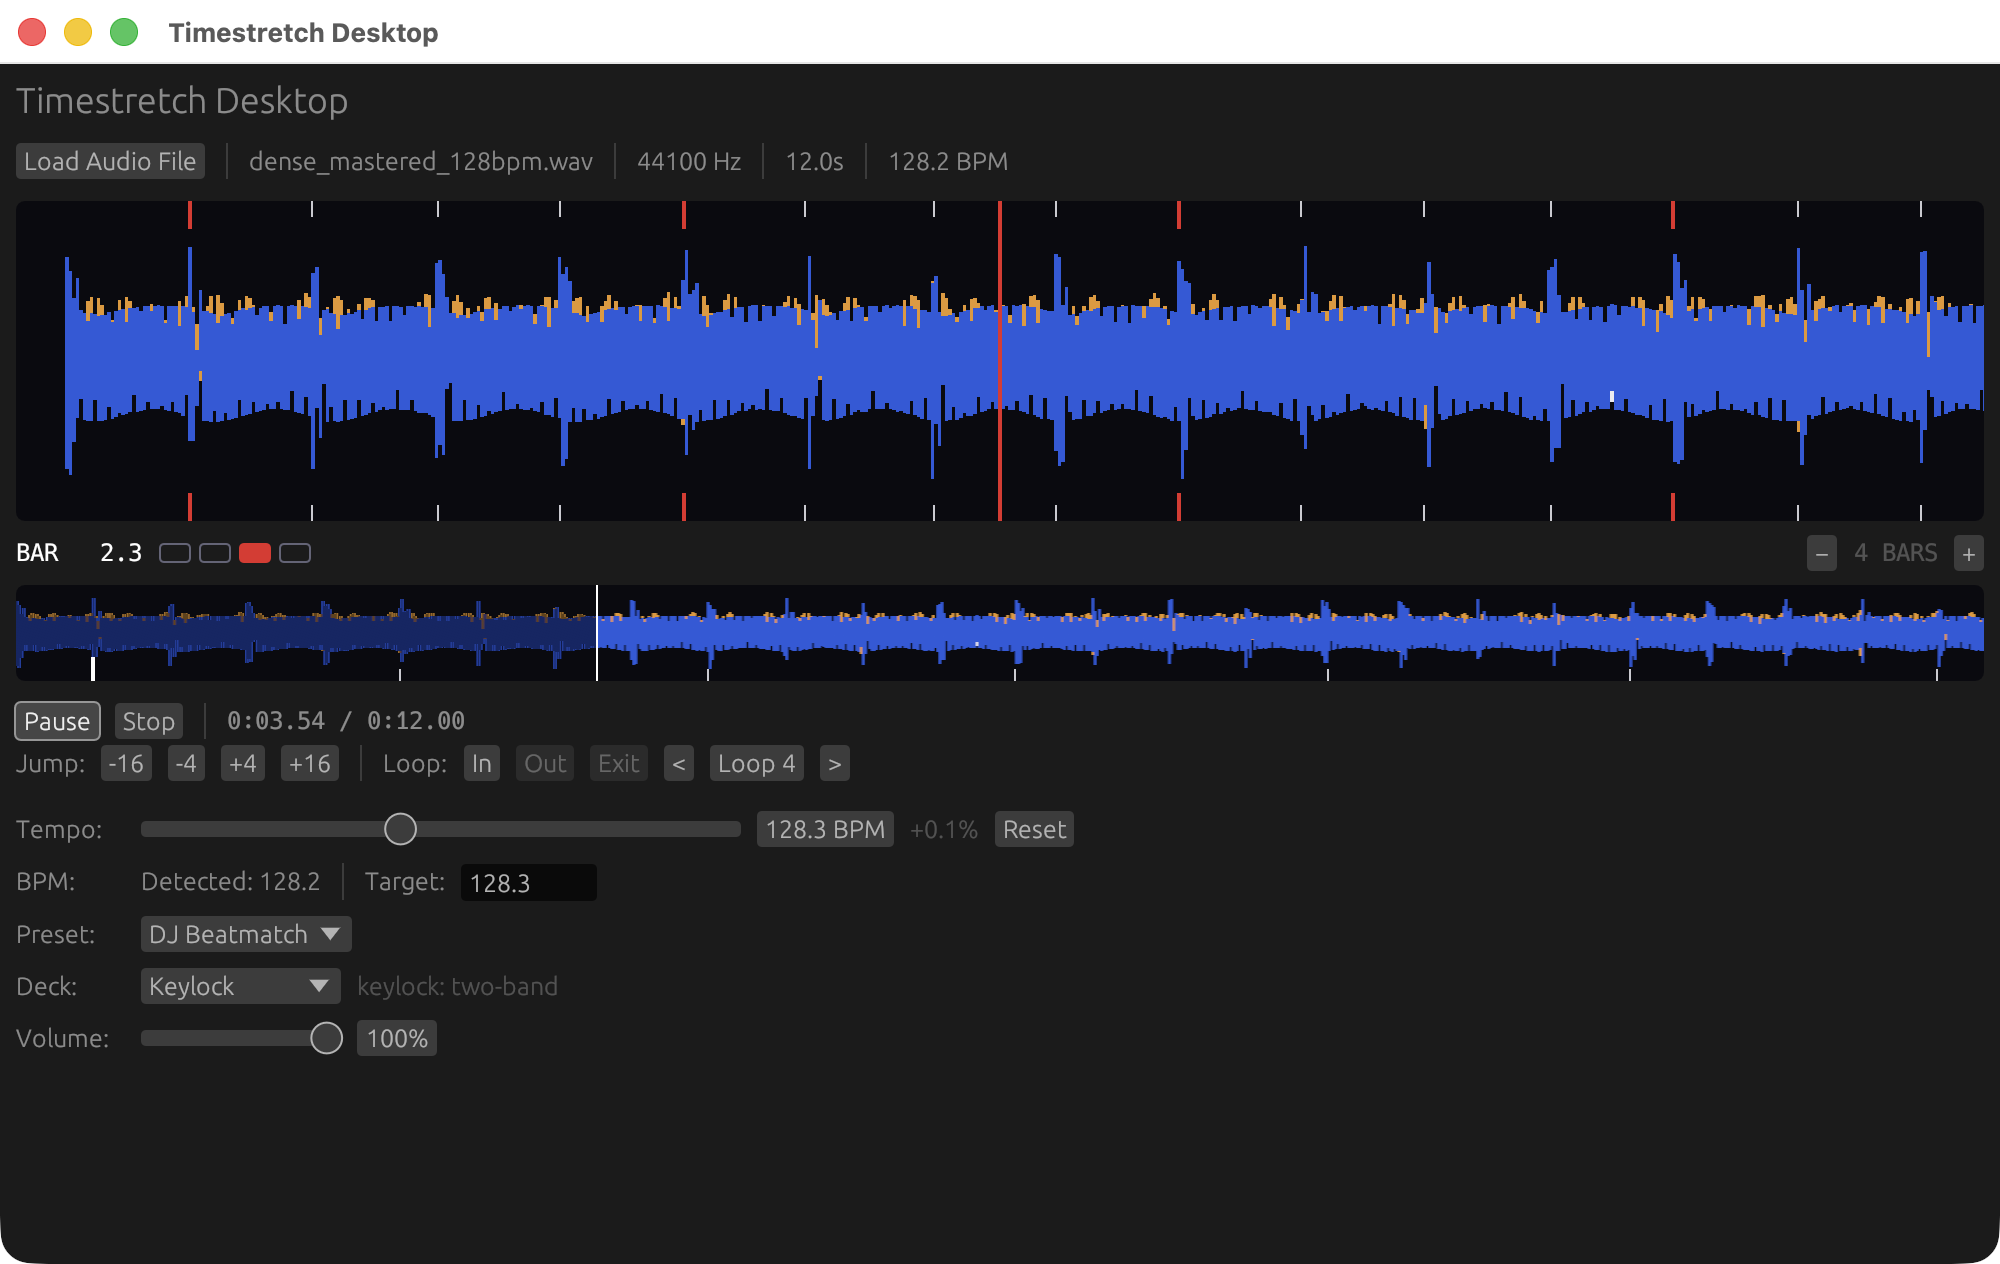
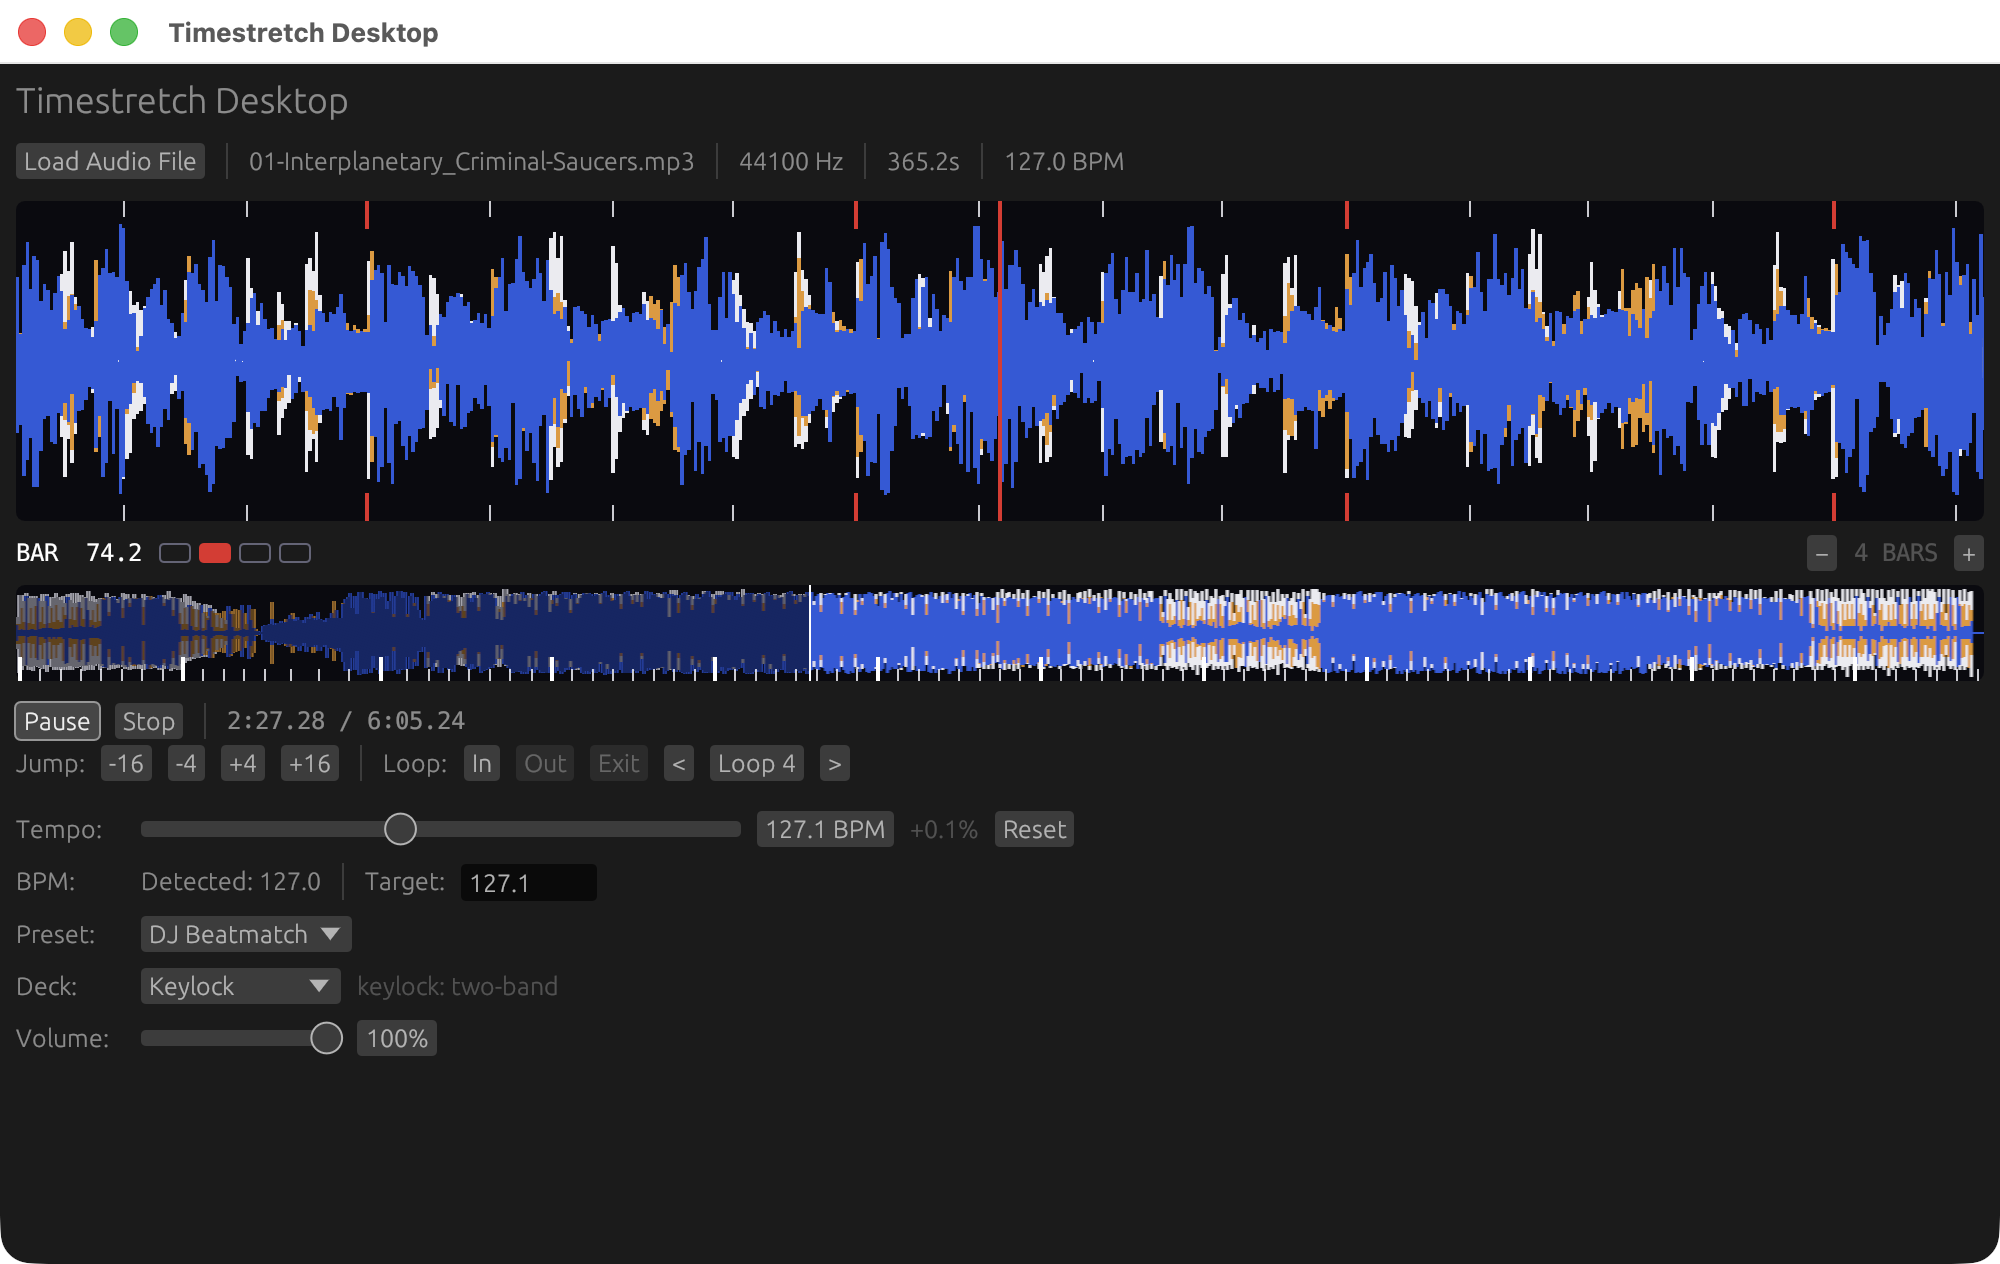
Recapture README screenshot with a real track; add readme-screenshot skill
Screenshot now shows Interplanetary Criminal - Saucers mid-playback
(seeked past the intro) instead of the synthetic test tone. The new
desktop/.claude/skills/readme-screenshot skill codifies the capture
procedure, with the uidrive CGEvent helper source kept alongside it.

diff --git a/desktop/.claude/skills/readme-screenshot/uidrive.swift b/desktop/.claude/skills/readme-screenshot/uidrive.swift
@@ -1,0 +1,81 @@
+import Cocoa
+import CoreGraphics
+
+func layer0Windows() -> [[String: Any]] {
+    let list = CGWindowListCopyWindowInfo([.optionOnScreenOnly, .excludeDesktopElements],
+                                          kCGNullWindowID) as! [[String: Any]]
+    return list.filter { ($0[kCGWindowLayer as String] as? Int ?? -1) == 0 }
+}
+
+func bounds(_ w: [String: Any]) -> CGRect {
+    let b = w[kCGWindowBounds as String] as! [String: CGFloat]
+    return CGRect(x: b["X"]!, y: b["Y"]!, width: b["Width"]!, height: b["Height"]!)
+}
+
+func post(_ type: CGEventType, _ pt: CGPoint, _ button: CGMouseButton = .left) {
+    CGEvent(mouseEventSource: nil, mouseType: type,
+            mouseCursorPosition: pt, mouseButton: button)?.post(tap: .cghidEventTap)
+}
+
+let args = CommandLine.arguments
+guard args.count >= 2 else {
+    fputs("usage: uidrive winid <name> | list | click <x> <y> | drag <x1> <y1> <x2> <y2> <ms> [holdBeforeMs] [holdAfterMs]\n", stderr)
+    exit(2)
+}
+
+switch args[1] {
+case "winid":
+    let name = args[2].lowercased()
+    for w in layer0Windows() {
+        let owner = (w[kCGWindowOwnerName as String] as? String ?? "").lowercased()
+        if owner.contains(name) {
+            let id = w[kCGWindowNumber as String] as! Int
+            let r = bounds(w)
+            print("\(id) \(Int(r.origin.x)) \(Int(r.origin.y)) \(Int(r.width)) \(Int(r.height))")
+            exit(0)
+        }
+    }
+    fputs("window not found\n", stderr)
+    exit(1)
+
+case "list":
+    for w in layer0Windows() {
+        let owner = w[kCGWindowOwnerName as String] as? String ?? "?"
+        let title = w[kCGWindowName as String] as? String ?? ""
+        let id = w[kCGWindowNumber as String] as! Int
+        let r = bounds(w)
+        print("\(id)\t\(owner)\t\(title)\t\(Int(r.origin.x)) \(Int(r.origin.y)) \(Int(r.width)) \(Int(r.height))")
+    }
+
+case "click":
+    let pt = CGPoint(x: Double(args[2])!, y: Double(args[3])!)
+    post(.mouseMoved, pt)
+    usleep(50_000)
+    post(.leftMouseDown, pt)
+    usleep(60_000)
+    post(.leftMouseUp, pt)
+
+case "drag":
+    let p1 = CGPoint(x: Double(args[2])!, y: Double(args[3])!)
+    let p2 = CGPoint(x: Double(args[4])!, y: Double(args[5])!)
+    let ms = Double(args[6])!
+    let holdBefore = args.count > 7 ? Double(args[7])! : 0
+    let holdAfter = args.count > 8 ? Double(args[8])! : 0
+    post(.mouseMoved, p1)
+    usleep(50_000)
+    post(.leftMouseDown, p1)
+    if holdBefore > 0 { usleep(useconds_t(holdBefore * 1000)) }
+    let steps = max(Int(ms / 8), 2)
+    for i in 1...steps {
+        let t = Double(i) / Double(steps)
+        let pt = CGPoint(x: p1.x + (p2.x - p1.x) * t, y: p1.y + (p2.y - p1.y) * t)
+        post(.leftMouseDragged, pt)
+        usleep(useconds_t((ms / Double(steps)) * 1000))
+    }
+    if holdAfter > 0 { usleep(useconds_t(holdAfter * 1000)) }
+    post(.leftMouseUp, p2)
+
+default:
+    fputs("unknown subcommand \(args[1])\n", stderr)
+    exit(2)
+}

diff --git a/desktop/.claude/skills/readme-screenshot/SKILL.md b/desktop/.claude/skills/readme-screenshot/SKILL.md
@@ -1,0 +1,89 @@
+---
+name: readme-screenshot
+description: Recapture the README screenshot (docs/desktop-app.png) by launching the desktop app with a real track, playing it, and screenshotting the window. Use when Rob asks to update/refresh the README or docs screenshot.
+---
+
+# Updating the README screenshot
+
+Replaces `docs/desktop-app.png` (referenced from the repo-root `README.md`)
+with a fresh capture of the desktop app mid-playback.
+
+## Track
+
+Always use the real music track so the waveform looks interesting:
+
+```
+benchmarks/audio/public-corpus/01-Interplanetary_Criminal-Saucers.mp3
+```
+
+Its `.tsanalysis.json` sidecar is cached next to it, so load/analysis is fast.
+Do NOT use the synthetic `test_audio/` tones — they make a boring screenshot.
+
+## Procedure
+
+All paths below are relative to the repo root unless noted.
+
+1. **Build & launch** (in `desktop/`, which is excluded from the workspace):
+
+   ```bash
+   cargo build --release
+   RUST_LOG=info target/release/timestretch-desktop \
+     ../benchmarks/audio/public-corpus/01-Interplanetary_Criminal-Saucers.mp3 \
+     > "$SCRATCH/app.log" 2>&1 &
+   sleep 4
+   ```
+
+2. **Compile the UI helper** from the copy kept in this skill directory
+   (`uidrive.swift`, subcommands: `winid <name>` / `list` / `click <x> <y>` /
+   `drag <x1> <y1> <x2> <y2> <ms> [holdBeforeMs] [holdAfterMs]`):
+
+   ```bash
+   swiftc -O -o "$SCRATCH/uidrive" desktop/.claude/skills/readme-screenshot/uidrive.swift
+   ```
+
+3. **Safety check before driving the pointer** — CGEvent clicks land on
+   whatever is topmost. Bring the app frontmost, then dump the layer-0
+   window list and confirm the app window is first and at the expected
+   position. If another window is on top or Rob is clearly active, STOP
+   and hand over to him.
+
+   ```bash
+   osascript -e 'tell application "System Events" to set frontmost of first process whose name contains "timestretch" to true'
+   "$SCRATCH/uidrive" winid timestretch    # -> "windowID x y w h" (screen points)
+   "$SCRATCH/uidrive" list | head -5
+   ```
+
+   At the default 1000×632 window at (256, 92): Play button ≈ (279, 452),
+   overview strip ≈ y 407 spanning x 264–1248.
+
+4. **Seek somewhere interesting, play, capture** in ONE staged command so
+   tool-call gaps don't drift the transport. Seek via the overview strip to
+   ~40% in (past the intro, into the busy part), then play and let the
+   playhead settle mid-view:
+
+   ```bash
+   "$SCRATCH/uidrive" click 650 407 && sleep 0.5 && \
+   "$SCRATCH/uidrive" click 279 452 && sleep 4 && \
+   screencapture -x -o -l <windowID> "$SCRATCH/shot.png"
+   ```
+
+   `-o` (no shadow) gives an exact 2× point→pixel mapping; without it the
+   shadow margin breaks coordinates and adds transparent padding.
+
+5. **Verify the capture** by reading the image before replacing anything:
+   - Transport shows **Pause** (i.e. playing) and a nonzero time readout.
+   - Beat grid overlay visible on the zoomed waveform; Keylock deck selected
+     (the README alt text mentions both).
+   - Track name row shows the mp3, sane BPM detection.
+   - Dimensions should be 2000×1264 (2× the default window).
+
+6. **Replace and clean up**:
+
+   ```bash
+   cp "$SCRATCH/shot.png" docs/desktop-app.png
+   pkill -f timestretch-desktop
+   grep -c underrun "$SCRATCH/app.log"   # expect 0
+   ```
+
+Commit only if asked. The README alt text lives at the image reference in
+`README.md` — update it if the captured state no longer matches it.
